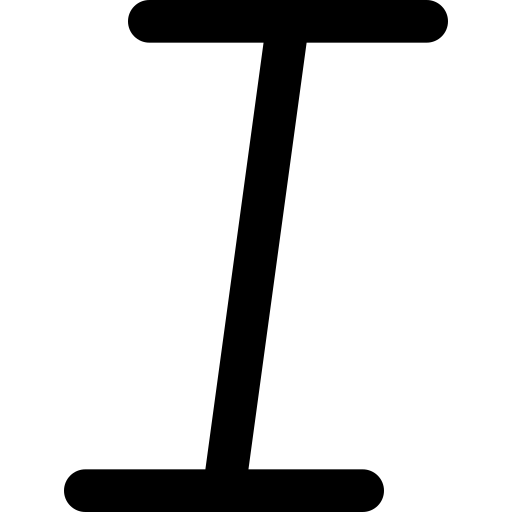
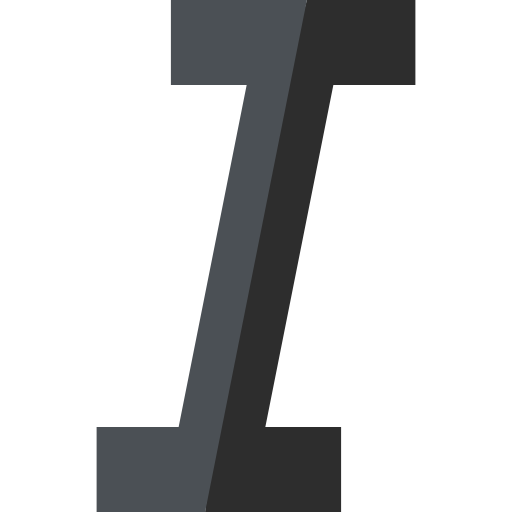
Add Layout, bug fixes & Add Fonts

Changed region(s): [[0.125, 0.0, 0.875, 1.0]]

diff --git a/justwrite.py b/justwrite.py
@@ -2,47 +2,119 @@ import sys
 
 from PyQt5.QtWidgets import (
     QApplication, QMainWindow, QTextEdit,
-    QFileDialog, QMessageBox, QInputDialog, QLineEdit, QAction, QUndoStack, QUndoCommand
+    QFileDialog, QMessageBox, QInputDialog, QLineEdit, QAction, QUndoStack, QUndoCommand, QFontDialog, QShortcut, QFontComboBox, QLabel, QMenu, QComboBox
 )
 from PyQt5.QtCore import Qt, QSize, QTimer
-from PyQt5.QtGui import QIcon, QFont, QTextCursor
-
+from PyQt5.QtGui import QIcon, QFont, QTextCursor, QTextBlockFormat, QKeySequence, QFontDatabase
 
 
 class WordProcessor(QMainWindow):
     def __init__(self):
         super().__init__()
-        self.setWindowTitle("Just Write")
+        self.setWindowTitle("JustWrite")
         self.setWindowIcon(QIcon('icons/logo.png'))
         self.setGeometry(100, 100, 800, 600)
 
         self.text_edit = QTextEdit(self)
-        
+
         self.setCentralWidget(self.text_edit)
 
         self.create_menu()
         self.create_toolBar()
-        
 
     def create_menu(self):
         menu_bar = self.menuBar()
         file_menu = menu_bar.addMenu("File")
-
-        new_action = QAction(QIcon(), "New", self)
-        new_action.setShortcut("Ctrl+N")
-        new_action.triggered.connect(self.new_file)
-        file_menu.addAction(new_action)
-
-        open_action = QAction(QIcon(), "Open", self)
+        edit_menu = menu_bar.addMenu("Edit")
+        format_menu = menu_bar.addMenu("Format")
+        layout_menu = menu_bar.addMenu("Layout")
+        
+        # New File
+        self.new_action = QAction(QIcon("icons/new_file_icon.png"), "New", self)
+        self.new_action.setShortcut("Ctrl+N")
+        self.new_action.triggered.connect(self.new_file)
+        # Open File
+        open_action = QAction(QIcon("icons/open_folder_icon.png"), "Open", self)
         open_action.setShortcut("Ctrl+O")
         open_action.triggered.connect(self.open_file)
-        file_menu.addAction(open_action)
+        # Save File
+        self.save_action = QAction(QIcon("icons/save_icon.png"), "Save", self)
+        self.save_action.setShortcut("Ctrl+S")
+        self.save_action.triggered.connect(self.save_file)
+        # Exit File
+        exit_action = QAction(QIcon("icons/exit_icon.png"), "Exit", self)
+        exit_action.triggered.connect(self.close)
 
-        save_action = QAction(QIcon(), "Save", self)
-        save_action.setShortcut("Ctrl+S")
-        save_action.triggered.connect(self.save_file)
-        file_menu.addAction(save_action)
+        file_menu.addActions([self.new_action, open_action, self.save_action, exit_action])
+        
+        # Edit Menu Bar
+        # Copy
+        # <a href="https://www.freepik.com/search">Icon by Anggara</a>
+        self.copy_action = QAction(QIcon("icons/copy_icon.png"), "Copy", self)
+        self.copy_action.setShortcut("Ctrl+C")
+        self.copy_action.triggered.connect(self.toggle_copy)
 
+        # Paste
+        # <a href="https://www.freepik.com/search">Icon by Pixel perfect</a>
+        self.paste_action = QAction(QIcon("icons/paste_icon.png"), "Paste", self)
+        self.paste_action.setShortcut("Ctrl+V")
+        self.paste_action.triggered.connect(self.toggle_paste)
+
+        # Cut
+        self.cut_action = QAction(QIcon("icons/cut_icon.png"), "Cut", self)
+        self.cut_action.setShortcut("Ctrl+X")
+        self.cut_action.triggered.connect(self.toggle_cut)
+
+        edit_menu.addActions([self.copy_action, self.paste_action, self.cut_action])
+        
+        # Format Menu
+        # Bold
+        self.bold_action = QAction(QIcon("icons/bold_icon.png"), "Bold", self)
+        self.bold_action.setShortcut("Ctrl+B")
+        self.bold_action.triggered.connect(self.toggle_bold)
+
+        # Italic
+        self.italic_action = QAction(QIcon("icons/italic_icon.png"), "Italic", self)
+        self.italic_action.setShortcut("Ctrl+I")
+        self.italic_action.triggered.connect(self.toggle_italic)
+
+        # Underline
+        self.underline_action = QAction(
+            QIcon("icons/underline_icon.png"), "Underline", self)
+        self.underline_action.setShortcut("Ctrl+U")
+        self.underline_action.triggered.connect(self.toggle_underline)
+
+        # Strikethrough
+        self.strikethrough_action = QAction(
+            QIcon("icons/strikethrough_icon.png"), "Strikethrough", self)
+        self.strikethrough_action.setShortcut("Ctrl+Shift+S")
+        self.strikethrough_action.triggered.connect(self.toggle_strikethrough)
+
+        format_menu.addActions([self.bold_action, self.italic_action, self.underline_action, self.strikethrough_action])
+        
+        # Layout
+        self.align_left = QAction(QIcon("icons/align_left.png"), "Align Left", self)
+        self.align_left.setCheckable(True)
+        self.align_left.setChecked(True)
+        self.align_left.triggered.connect(self.toggle_align_left)
+
+        self.align_center = QAction(
+            QIcon("icons/align_center.png"), "Align Center", self)
+        self.align_center.setCheckable(True)
+        self.align_center.triggered.connect(self.toggle_align_center)
+
+        self.align_right = QAction(
+            QIcon("icons/align_right.png"), "Align Right", self)
+        self.align_right.setCheckable(True)
+        self.align_right.triggered.connect(self.toggle_align_right)
+
+        self.align_justify = QAction(
+            QIcon("icons/align_justify.png"), "Align Justify", self)
+        self.align_justify.setCheckable(True)
+        self.align_justify.triggered.connect(self.toggle_align_justify)
+
+        layout_menu.addActions([self.align_left, self.align_center, self.align_right, self.align_justify])
+        
         self.tools_menu = menu_bar.addMenu("Tools")
 
     def new_file(self):
@@ -93,36 +165,103 @@ class WordProcessor(QMainWindow):
 
     def create_toolBar(self):
         toolBar = self.addToolBar("Bold")
-        toolBar.setIconSize(QSize(16, 16))
-        
+        toolBar.setIconSize(QSize(17, 17))
+        toolBar.addActions([self.new_action, self.save_action])
         toolBar.addSeparator()
-        # <a href="https://www.freepik.com/search">Icon by Anggara</a>
-        copy = QAction(QIcon("icons/copy_icon.png"), "Copy", self)
-        copy.setShortcut("Ctrl+C")
-        copy.triggered.connect(self.toggle_copy)
-        toolBar.addAction(copy)
-        # <a href="https://www.freepik.com/search">Icon by Pixel perfect</a>
-        paste = QAction(QIcon("icons/paste_icon.png"), "Paste", self)
-        paste.setShortcut("Ctrl+V")
-        paste.triggered.connect(self.toggle_paste)
-        toolBar.addAction(paste)
+        toolBar.addActions([self.copy_action, self.paste_action])
 
         toolBar.addSeparator()
-        self.bold = QAction(QIcon("icons/bold_icon.png"), "Bold", self)
-        self.bold.setShortcut("Ctrl+B")
-        self.bold.triggered.connect(self.toggle_bold)
-        toolBar.addAction(self.bold)
-        italic = QAction(QIcon("icons/italic_icon.png"), "Italic", self)
-        italic.setShortcut("Ctrl+I")
-        italic.triggered.connect(self.toggle_italic)
-        toolBar.addAction(italic)
-        underline = QAction(QIcon("icons/underline_icon.png"), "Underline", self)
-        underline.triggered.connect(self.toggle_underline)
-        toolBar.addAction(underline)
-        strikethrough = QAction(QIcon("icons/strikethrough_icon.png"), "Strikethrough", self)
-        strikethrough.triggered.connect(self.toggle_strikethrough)
-        toolBar.addAction(strikethrough)
+        self.font_combo_box = QFontComboBox(self)
+        self.font_size_combo_box = QComboBox(self)
+        self.font_size_combo_box.addItems(
+            [str(size) for size in range(8, 65, 2)])
+        self.font_combo_box.currentFontChanged.connect(self.change_font)
+        self.font_size_combo_box.currentTextChanged.connect(
+            self.change_font_size)
+        toolBar.addWidget(self.font_combo_box)
+        toolBar.addWidget(self.font_size_combo_box)
         toolBar.addSeparator()
+        toolBar.addActions([self.bold_action, self.italic_action,
+                           self.underline_action, self.strikethrough_action])
+        toolBar.addSeparator()
+        toolBar.addActions([self.align_left, self.align_center,
+                           self.align_right, self.align_justify])
+
+    def toggle_align_right(self):
+        cursor = self.text_edit.textCursor()
+        if self.align_justify.isChecked:
+            self.align_justify.setChecked(False)
+        if self.align_center.isChecked:
+            self.align_center.setChecked(False)
+        if self.align_left.isChecked:
+            self.align_left.setChecked(False)
+        self.align_right.setChecked(True)
+        if cursor.hasSelection():
+            block_format = QTextBlockFormat()
+            block_format.setAlignment(Qt.AlignRight)
+            cursor.mergeBlockFormat(block_format)
+            self.text_edit.setTextCursor(cursor)
+        else:
+            self.text_edit.setAlignment(Qt.AlignRight)
+
+    def toggle_align_left(self):
+        if self.align_justify.isChecked:
+            self.align_justify.setChecked(False)
+        if self.align_center.isChecked:
+            self.align_center.setChecked(False)
+        if self.align_right.isChecked:
+            self.align_right.setChecked(False)
+        self.align_left.setChecked(True)
+        cursor = self.text_edit.textCursor()
+        if cursor.hasSelection():
+            block_format = QTextBlockFormat()
+            block_format.setAlignment(Qt.AlignLeft)
+            cursor.mergeBlockFormat(block_format)
+            self.text_edit.setTextCursor(cursor)
+        else:
+            self.text_edit.setAlignment(Qt.AlignLeft)
+
+    def toggle_align_center(self):
+        if self.align_justify.isChecked:
+            self.align_justify.setChecked(False)
+        if self.align_right.isChecked:
+            self.align_right.setChecked(False)
+        if self.align_left.isChecked:
+            self.align_left.setChecked(False)
+        self.align_center.setChecked(True)
+        cursor = self.text_edit.textCursor()
+        if cursor.hasSelection():
+            block_format = QTextBlockFormat()
+            block_format.setAlignment(Qt.AlignCenter)
+            cursor.mergeBlockFormat(block_format)
+            self.text_edit.setTextCursor(cursor)
+        else:
+            self.text_edit.setAlignment(Qt.AlignCenter)
+
+    def toggle_align_justify(self):
+        if self.align_right.isChecked:
+            self.align_right.setChecked(False)
+        if self.align_center.isChecked:
+            self.align_center.setChecked(False)
+        if self.align_left.isChecked:
+            self.align_left.setChecked(False)
+        self.align_justify.setChecked(True)
+        cursor = self.text_edit.textCursor()
+        if cursor.hasSelection():
+            block_format = QTextBlockFormat()
+            block_format.setAlignment(Qt.AlignJustify)
+            cursor.mergeBlockFormat(block_format)
+            self.text_edit.setTextCursor(cursor)
+        else:
+            self.text_edit.setAlignment(Qt.AlignJustify)
+
+    def change_font(self, font: QFont):
+        self.text_edit.setCurrentFont(font)
+
+    def change_font_size(self, size: str):
+        font = self.text_edit.currentFont()
+        font.setPointSize(int(size))
+        self.text_edit.setCurrentFont(font)
 
     def toggle_copy(self):
         clipboard = QApplication.clipboard()
@@ -131,6 +270,11 @@ class WordProcessor(QMainWindow):
     def toggle_paste(self):
         clipboard = QApplication.clipboard()
         self.text_edit.textCursor().insertHtml(clipboard.text())
+
+    def toggle_cut(self):
+        clipboard = QApplication.clipboard()
+        clipboard.setText(self.text_edit.textCursor().selection().toHtml())
+        self.text_edit.textCursor().removeSelectedText()
 
     def left_to_right_select(self, cursor):
         if cursor.hasSelection() and not cursor.atBlockStart() and cursor.position() == cursor.selectionStart():
@@ -181,6 +325,7 @@ class WordProcessor(QMainWindow):
             char_format.setFontStrikeOut(True)
         cursor.mergeCharFormat(char_format)
         self.text_edit.setTextCursor(cursor)
+
 
 class LockdownWordProcessor(WordProcessor):
     def __init__(self):
@@ -285,7 +430,16 @@ class LockdownWordProcessor(WordProcessor):
                 "You cannot close the application in Lockdown Mode."
             )
         else:
-            event.accept()
+            reply = QMessageBox.question(self, "Exit Confirmation",
+                                     "Are you sure you want to exit?",
+                                     QMessageBox.Yes | QMessageBox.Save | QMessageBox.No)
+            if reply == QMessageBox.Yes:
+                event.accept()
+            elif reply == QMessageBox.Save:
+                self.save_file()
+                event.accept()
+            else:
+                event.ignore()
 
 
 if __name__ == "__main__":
